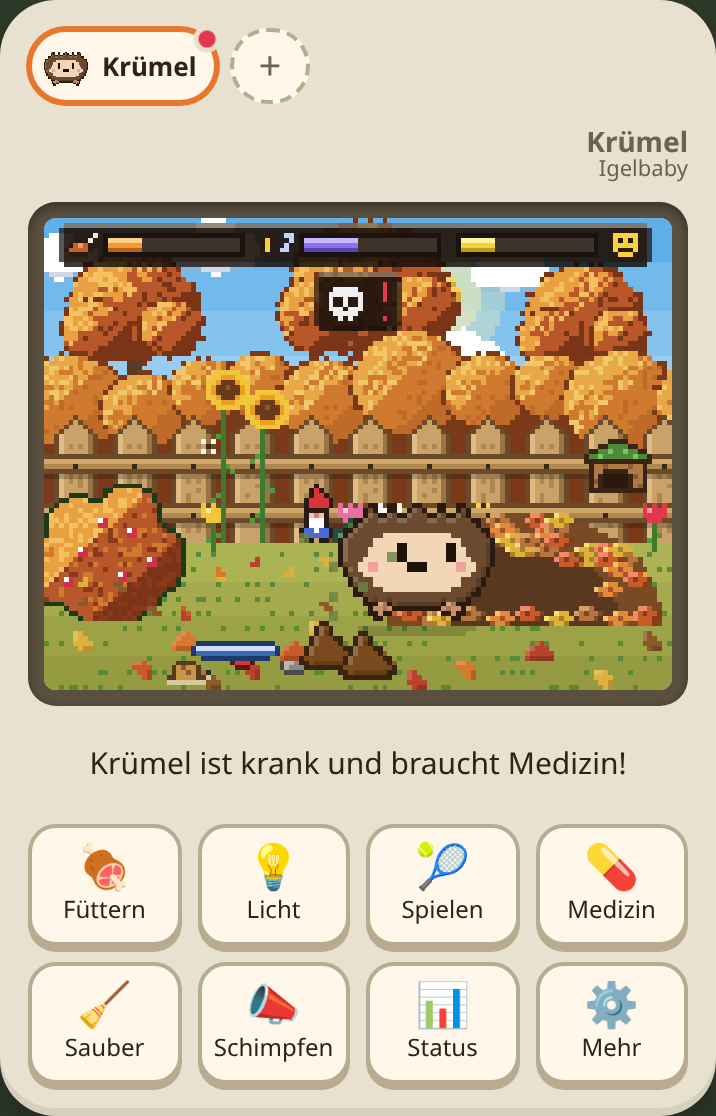
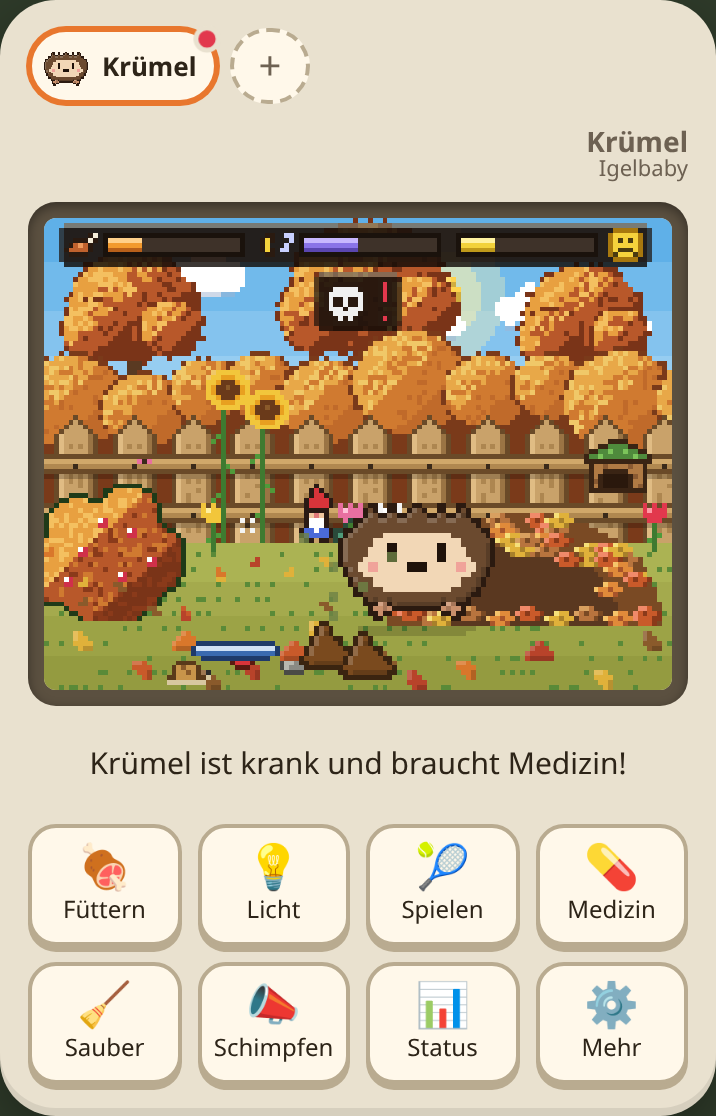
Strohhaufen beim Huhn (hüpft hinauf und schaut sich um), kleinere Zzz, freundlicherer HUD-Smiley

diff --git a/src/render/scene.ts b/src/render/scene.ts
@@ -9,7 +9,7 @@ import { COOP_PERCH_Y, DEN, GROUND_Y, PLATE_COLORS, clipToDen, SceneKind, drawNe
 import { Clouds, drawPrecip, drawPuddles, drawWindowDrops, weatherAt } from './weather';
 import { Ambient, LAMP, drawLamp, drawLampLight, eveningLight, nightTint, nightness, roomNight } from './ambient';
 import { remapContext, seasonOf, seasonTransform, snowCaps, snowGround } from './season';
-import { NEST_BOX, decorTargets, drawDecorAnim, drawDecorFar, drawDecorNear, drawFrontDecorFor, drawNestEggs, drawSillDecor, drawWeathervane } from './decor';
+import { NEST_BOX, STRAW_HEAP, decorTargets, drawDecorAnim, drawDecorFar, drawDecorNear, drawFrontDecorFor, drawNestEggs, drawSillDecor, drawWeathervane } from './decor';
 
 export const SCREEN_W = 64;
 export const SCREEN_H = 48;
@@ -145,6 +145,9 @@ const LEAVES_BACK: [number, number, number, number][] = Array.from({ length: 26 
   return [((n * 7) % 126) / 2, 33.5 + ((n >> 2) % 14) / 2, n % 5, (n >> 1) % 3];
 });
 
+// kleines Schlaf-Z in voller Rasterauflösung
+const Z_SMALL = ['www', '..w', '.w.', 'www'];
+
 // HUD-Symbole in voller Rasterauflösung (1 Zeichen = 1 Bildpixel)
 const HUD_COLORS: ColorMap = {
   o: '#2a1a10',
@@ -158,9 +161,10 @@ const HUD_COLORS: ColorMap = {
   r: '#e2384d',
   z: '#c8d0ff',
 };
-const HUD_HAPPY_S = ['.ooooo.', 'oyyyyyo', 'oyoyoyo', 'oyyyyyo', 'okyyyko', 'oykkkyo', '.ooooo.'];
-const HUD_OK_S = ['.ooooo.', 'oyyyyyo', 'oyoyoyo', 'oyyyyyo', 'oyyyyyo', 'oykkkyo', '.ooooo.'];
-const HUD_SAD_S = ['.ooooo.', 'oyyyyyo', 'oyoyoyo', 'oyyyyyo', 'oykkkyo', 'okyyyko', '.ooooo.'];
+const HUD_HAPPY_S = ['.ooooo.', 'oyyyyyo', 'oykykyo', 'oyyyyyo', 'okyyyko', 'oykkkyo', '.ooooo.'];
+const HUD_OK_S = ['.ooooo.', 'oyyyyyo', 'oykykyo', 'oyyyyyo', 'oyyyyyo', 'oykkkyo', '.ooooo.'];
+const HUD_SAD_S = ['.ooooo.', 'oyyyyyo', 'oykykyo', 'oyyyyyo', 'oykkkyo', 'okyyyko', '.ooooo.'];
+const SMILEY_COLORS: ColorMap = { o: '#a8780e', y: '#f6d23c', k: '#4a3a10' };
 const HUD_MEAT_S = ['.....ow', '..ooowo', '.obhbo.', 'obbbbo.', '.oooo..'];
 const HUD_MOON_S = ['.oo..zz', 'oyo...z', 'oy...z.', 'oyo.zz.', '.oo....'];
 const HUD_SKULL = [
@@ -206,7 +210,7 @@ export class Scene {
   private walkX = 30;
   private walkDir = 1;
   private depth = 1; // 0 = hinten, 3.5 = vorne im Raum
-  private act: { kind: 'walk' | 'idle' | 'look' | 'groom' | 'stretch' | 'watch' | 'pet' | 'visit' | 'chase'; visit?: 'sniff' | 'nudge' | 'drink' | 'dustbath' | 'sill'; arrived?: number; sillY?: number; start: number; until: number; target?: number; targetDepth?: number; speed?: number } = {
+  private act: { kind: 'walk' | 'idle' | 'look' | 'groom' | 'stretch' | 'watch' | 'pet' | 'visit' | 'chase'; visit?: 'sniff' | 'nudge' | 'drink' | 'dustbath' | 'sill' | 'hop'; arrived?: number; sillY?: number; start: number; until: number; target?: number; targetDepth?: number; speed?: number } = {
     kind: 'idle',
     start: 0,
     until: 0,
@@ -224,9 +228,9 @@ export class Scene {
   }
 
   /** nur zum Testen: bestimmte Aktion sofort auslösen */
-  debugAct(kind: 'visit' | 'groom' | 'stretch' | 'look' | 'idle', visit?: 'sniff' | 'nudge' | 'drink' | 'dustbath' | 'sill', target?: number) {
+  debugAct(kind: 'visit' | 'groom' | 'stretch' | 'look' | 'idle', visit?: 'sniff' | 'nudge' | 'drink' | 'dustbath' | 'sill' | 'hop', target?: number) {
     const t = performance.now();
-    this.act = { kind, visit, start: t, until: t + 30000, target, targetDepth: visit === 'drink' || visit === 'dustbath' ? 2.5 : 1, speed: 12 };
+    this.act = { kind, visit, start: t, until: t + 30000, target, targetDepth: visit === 'drink' || visit === 'dustbath' ? 2.5 : visit === 'hop' ? 0 : 1, speed: 12 };
     if (kind !== 'visit') this.act.until = t + 2600;
   }
 
@@ -464,7 +468,7 @@ export class Scene {
       const sl = petSprite(sp, p, { sleeping: true, sleepSmall: this.env === 'forest' });
       const zx = this.env === 'forest' ? DEN.cx + DEN.half - 1 : Math.min(BASKET_CX + sl.w / 2 - 4, SCREEN_W - 12);
       const k = Math.floor(t / 600) % 3;
-      for (let i = 0; i <= k; i++) drawMap(ctx, ICONS.z.map, ICONS.z.colors, zx + i * 4, FLOOR_Y - sl.h - 6 - i * 5);
+      for (let i = 0; i <= k; i++) drawPixels(ctx, Z_SMALL, ICONS.z.colors, zx + i * 2, FLOOR_Y - sl.h - 3 - i * 2.5);
     }
 
     // Entwicklung: weißes Aufblitzen
@@ -494,7 +498,7 @@ export class Scene {
       drawPixels(ctx, HUD_MOON_S, HUD_COLORS, x0 + 41 * PX, y);
       this.drawBar(x0 + 49 * PX, y, p.tiredness / 100, ['#c8b8ff', '#8a74e8', '#5a46b0'], t, true);
       this.drawBar(x0 + 81 * PX, y, p.happy / RULES.hearts, ['#fff2a0', '#f2d23a', '#c09a1a'], t);
-      drawPixels(ctx, mood >= 3 ? HUD_HAPPY_S : mood === 2 ? HUD_OK_S : HUD_SAD_S, HUD_COLORS, x0 + 112 * PX, top + 1 * PX);
+      drawPixels(ctx, mood >= 3 ? HUD_HAPPY_S : mood === 2 ? HUD_OK_S : HUD_SAD_S, SMILEY_COLORS, x0 + 112 * PX, top + 1 * PX);
     }
     // darunter mittig: krank / ruft
     const calling = Object.keys(p.calls).length > 0;
@@ -864,7 +868,7 @@ export class Scene {
     const targets = decorTargets(p.species);
     if (targets.length && !p.sick && Math.random() < 0.14) {
       const tg = targets[Math.floor(Math.random() * targets.length)];
-      return { kind: 'visit' as const, visit: tg.kind, start: t, until: t + 30000, target: tg.x - 8, targetDepth: tg.kind === 'drink' || tg.kind === 'dustbath' ? 2.5 : 1, speed: 7 };
+      return { kind: 'visit' as const, visit: tg.kind, start: t, until: t + 30000, target: tg.x - 8, targetDepth: tg.kind === 'drink' || tg.kind === 'dustbath' ? 2.5 : tg.kind === 'hop' ? 0 : 1, speed: 7 };
     }
     if (r < 0.42) {
       let target = from + Math.random() * (to - from);
@@ -936,7 +940,7 @@ export class Scene {
         const dd = (a.targetDepth ?? this.depth) - this.depth;
         if (Math.abs(diff) < 0.3 && Math.abs(dd) < 0.1) {
           a.arrived = t;
-          a.until = t + ({ sniff: 2200, nudge: 1600, drink: 2600, dustbath: 3500, sill: 9000 } as const)[a.visit ?? 'sniff'];
+          a.until = t + ({ sniff: 2200, nudge: 1600, drink: 2600, dustbath: 3500, sill: 9000, hop: 5000 } as const)[a.visit ?? 'sniff'];
         } else {
           const dist = Math.hypot(diff, dd * 2);
           const step = Math.min(dist, (a.speed ?? 6) * dt);
@@ -977,8 +981,9 @@ export class Scene {
         this.walkDir = dir;
         face = dir;
         gaze = dir;
-      } else if (a.kind === 'look') {
+      } else if (a.kind === 'look' || (a.kind === 'visit' && a.visit === 'hop' && a.arrived !== undefined)) {
         gaze = Math.sin((t - a.start) / 450) > 0 ? 1 : -1;
+        if (a.kind === 'visit') face = gaze; // auf dem Strohhaufen hin und her schauen
       }
     }
     // Seitenansicht-Sprites (Dackel) schauen von Haus aus nach links
@@ -1005,7 +1010,14 @@ export class Scene {
     if (s >= 0 && s < 600) x += Math.round(Math.sin(s / 25) * 1.5);
     if (petted) x += Math.floor((t - a.start) / 300) % 2 ? 0.5 : 0; // genießerisch wiegen
 
-    const ground = FLOOR_Y + Math.round(this.depth * 2) / 2;
+    let ground = FLOOR_Y + Math.round(this.depth * 2) / 2;
+    if (visiting === 'hop') {
+      // hochhüpfen, oben stehen, runterhüpfen
+      const kk = (t - (a.arrived ?? t)) / Math.max(1, a.until - (a.arrived ?? t));
+      const up = kk < 0.1 ? kk / 0.1 : kk > 0.9 ? (1 - kk) / 0.1 : 1;
+      const arc = up < 1 ? Math.sin(Math.PI * up) * 2.5 : 0;
+      ground = Math.round((ground - (STRAW_HEAP.h - 0.5) * up - arc) * 2) / 2;
+    }
     const y = ground - h + 1 - bob;
     // kleiner Schatten unter dem Tier
     ctx.fillStyle = 'rgba(0,0,0,0.16)';

diff --git a/src/render/decor.ts b/src/render/decor.ts
@@ -133,7 +133,7 @@ const TROUGH_C: ColorMap = { o: '#4a5058', W: '#c8d0d8', l: '#7ac0f0', m: '#8a94
 // ---------- Platzierungen ----------
 export interface DecorTarget {
   x: number; // wo das Tier hinläuft (Mitte)
-  kind: 'sniff' | 'nudge' | 'drink' | 'dustbath' | 'sill';
+  kind: 'sniff' | 'nudge' | 'drink' | 'dustbath' | 'sill' | 'hop';
 }
 
 /** Interaktionspunkte je Tierart */
@@ -148,7 +148,7 @@ export function decorTargets(species: string): DecorTarget[] {
     case 'dog':
       return [{ x: 27, kind: 'drink' }];
     case 'chicken':
-      return [{ x: 8, kind: 'dustbath' }];
+      return [{ x: 8, kind: 'dustbath' }, { x: STRAW_HEAP.cx, kind: 'hop' }];
   }
   return [];
 }
@@ -167,6 +167,27 @@ export function drawDecorFar(ctx: CanvasRenderingContext2D, scene: SceneKind) {
 }
 
 let sunflowersOff = false;
+
+/** Strohhaufen auf dem Hühnerhof (das Huhn hüpft manchmal hinauf) */
+export const STRAW_HEAP = { cx: 30.5, base: 41, rx: 5.5, h: 4.5 };
+function strawHeap(ctx: CanvasRenderingContext2D) {
+  const { cx, base, rx, h } = STRAW_HEAP;
+  for (let y = base - h; y < base; y += P)
+    for (let x = cx - rx; x <= cx + rx; x += P) {
+      const u = (x + P / 2 - cx) / rx;
+      const v = (base - (y + P / 2)) / h;
+      if (u * u + v * v > 1) continue;
+      const n = (((Math.round(x * 2) * 73856093) ^ (Math.round(y * 2) * 19349663)) >>> 0) % 997;
+      const edge = u * u + (v + 0.12) * (v + 0.12) > 0.82;
+      let c = n % 4 === 0 ? '#f4dc8a' : n % 3 === 0 ? '#c09a3a' : '#e0b850';
+      if (u + (1 - v) * 0.3 > 0.65) c = n % 2 ? '#b88a30' : '#a07a28'; // Schatten rechts
+      if (edge && n % 2) c = '#8a6a20';
+      rect(ctx, c, x, y, P, P);
+    }
+  // einzelne abstehende Halme
+  for (const [hx, hy, dx] of [[cx - 3, base - h + 0.5, -1], [cx + 1, base - h - 0.5, 1], [cx + 4, base - 2, 1], [cx - 4.5, base - 1.5, -1]] as [number, number, number][])
+    for (let k = 0; k < 3; k++) rect(ctx, '#f0d070', hx + dx * k * P, hy - k * P * 0.5, P, P);
+}
 
 /** Wandregal mit Büchern */
 function shelf(ctx: CanvasRenderingContext2D, x: number, y: number, books: string[]) {
@@ -262,6 +283,7 @@ export function drawDecorNear(ctx: CanvasRenderingContext2D, species: string, su
           const d = ((x - 8.5) / 5.5) ** 2 + ((y - 45) / 2) ** 2;
           if (d < 1) rect(ctx, d < 0.5 ? '#b8923a' : '#c8a24a', x, y, P, P);
         }
+      strawHeap(ctx);
       put(ctx, TROUGH_WATER, TROUGH_C, 26, 41.5);
       // Leiter an der linken Stallwand
       for (const lx of [35.5, 37.5]) rect(ctx, '#7a5a34', lx, 30, P, 11);

diff --git a/SPEC.md b/SPEC.md
@@ -350,7 +350,7 @@ Gesperrte Aktionen, zum Beispiel Füttern während des Schlafs, sind ausgegraut.
 **Umgebung je Tierart:**
 - **Katze:** wohnt drinnen im Zimmer (siehe unten).
 - **Fuchs:** lebt draußen **am Waldrand**: Himmel mit Sonne bzw. Mond und Sternen, ganz hinten eine bläuliche **Bergkette mit Schneegipfeln**, schattigen Hängen und Dunst, davor ein dunstiger Waldsaum, zwei Hügelketten mit kleinen Bäumen, **Tannen mit Ast-Etagen** (Licht links, Schatten rechts), Wiese mit Grashalmen, Steinen und einem **Fliegenpilz**, links vorne ein runder **Busch** mit Beeren. Der Baumstamm hat Rindenfurchen, Moos, Astknoten und einen Aststummel. Er schläft in einer **Baumhöhle**: Der Baum ist so hoch, dass man **nur den Stamm** sieht und keine Blätter. Der Stamm ist schlank, mit Rindenstruktur, Licht und Schatten, einem Aststummel, einem Astloch und Wurzeln. Unten im Stamm ist ein kleiner bogenförmiger Eingang zum Fuchsbau mit Laubpolster. Der schlafende Fuchs liegt **in** der Höhle: Er ist nur durch die Öffnung zu sehen, der Stamm verdeckt den Rest, und innen ist es etwas schattiger. Dafür rollt er sich kleiner zusammen. Gefüttert wird auf einem flachen Stein.
-- **Huhn:** lebt draußen auf dem **Hühnerhof**: Hecke und Zaun wie im Garten, der **Boden ist komplett mit Stroh ausgelegt** (Halme kreuz und quer). Es schläft in einem **Hühnerstall** aus Holzbrettern mit rotem Ziegeldach und kleinem Fenster. Die hohe Tür hat innen eine **Sitzstange** auf zwei Stützen und Stroh am Boden. Gefüttert wird aus einer **flachen Blechschale**, in der beim Füttern ein **Haufen Körner** liegt, der beim Picken weniger wird. Statt Blättern wehen Heu- und Strohhalme vorbei, als Besucher kommen eine Maus und Vögel.
+- **Huhn:** lebt draußen auf dem **Hühnerhof**: Hecke und Zaun wie im Garten, der **Boden ist komplett mit Stroh ausgelegt** (Halme kreuz und quer). Es schläft in einem **Hühnerstall** aus Holzbrettern mit rotem Ziegeldach und kleinem Fenster. Die hohe Tür hat innen eine **Sitzstange** auf zwei Stützen und Stroh am Boden. Hinter der Tränke liegt ein **Strohhaufen**. Gefüttert wird aus einer **flachen Blechschale**, in der beim Füttern ein **Haufen Körner** liegt, der beim Picken weniger wird. Statt Blättern wehen Heu- und Strohhalme vorbei, als Besucher kommen eine Maus und Vögel.
 - **Igel:** lebt draußen **im Garten**: dahinter stehen **drei Laubbäume** mit runden, schattierten Kronen, davor eine **Hecke aus einzelnen runden Sträuchern** (Licht oben links, Schatten und Lücken dazwischen), dann ein **Holzzaun mit spitzen Latten**, Maserung, Nägeln und Schatten, ein Busch mit roten Beeren, **Tulpen**, ein Stein und Rasen mit Herbstlaub, das über die **ganze Wiese** verteilt liegt (hinten kleinere Blätter). Der Laubhaufen besteht aus vielen einzelnen bunten Blättern. Er schläft in einem **Laubhaufen**. Gefüttert wird aus einer **flachen blauen Keramikschale**, die sich gut von Rasen und Laub abhebt.
 - Schlafplätze sind innen hell genug und verdecken nur den unteren Rand, damit man das schlafende Tier **gut erkennt**. „Licht aus“ dunkelt das Bild **nicht** ab, auch wenn das Tier schläft (nur die Stehlampe im Zimmer geht aus). Nachts ist draußen der Hintergrund zusätzlich dunkler.
 
@@ -380,6 +380,7 @@ Gesperrte Aktionen, zum Beispiel Füttern während des Schlafs, sind ausgegraut.
   - Igel: schnuppert am Apfel
   - Katze: stupst die Spielmaus an oder **springt aufs Fensterkissen** und döst dort eine Weile eingerollt, dann springt sie wieder herunter
   - Hund: **trinkt** am Wassernapf, kleine Wassertropfen inklusive
+  - Huhn: hüpft auf den **Strohhaufen**, schaut sich oben nach links und rechts um und hüpft wieder herunter
   - Huhn: nimmt ein **Sandbad**, plustert sich in der Kuhle auf und lässt Staubwölkchen aufsteigen
 - Kommt ein **Tier vorbei** (Maus, Igel, Reh, Vogel, auch der Vogel am Fenster), bleibt das Haustier **kurz stehen**, dreht sich hin und **schaut ihm nach**.
 
@@ -391,7 +392,7 @@ Gesperrte Aktionen, zum Beispiel Füttern während des Schlafs, sind ausgegraut.
 - **Schimpfen:** Das Tier schüttelt sich.
 - **Entwicklung:** Der Bildschirm blitzt weiß auf, danach hüpft das Tier.
 - **Haufen:** Über den Haufen steigen Stinkewölkchen auf.
-- **Schlaf:** Schlafende Tiere liegen in einer eigenen **eingerollten Schlafpose** im Körbchen bzw. in der Höhle. Fuchs, Katze und Hund liegen mit dem Kopf auf den Pfoten und dem Schwanz vorne herum, der Fuchs mit weißer Schwanzspitze. Der Igel rollt sich zur Stachelkugel ein. Hunde haben die Ohren ihrer Rasse (Steh-, Schlapp- oder kleine Ohren), Fellfarbe und Muster bleiben erhalten. Die Tiere atmen ganz sanft (ein halber Pixel, langsam), darüber schweben „Zzz“. In der Tier-Leiste oben erscheint ebenfalls die Schlafpose.
+- **Schlaf:** Schlafende Tiere liegen in einer eigenen **eingerollten Schlafpose** im Körbchen bzw. in der Höhle. Fuchs, Katze und Hund liegen mit dem Kopf auf den Pfoten und dem Schwanz vorne herum, der Fuchs mit weißer Schwanzspitze. Der Igel rollt sich zur Stachelkugel ein. Hunde haben die Ohren ihrer Rasse (Steh-, Schlapp- oder kleine Ohren), Fellfarbe und Muster bleiben erhalten. Die Tiere atmen ganz sanft (ein halber Pixel, langsam), darüber schweben kleine „Zzz“. In der Tier-Leiste oben erscheint ebenfalls die Schlafpose.
 
 ## 9. Offene Fragen
 
